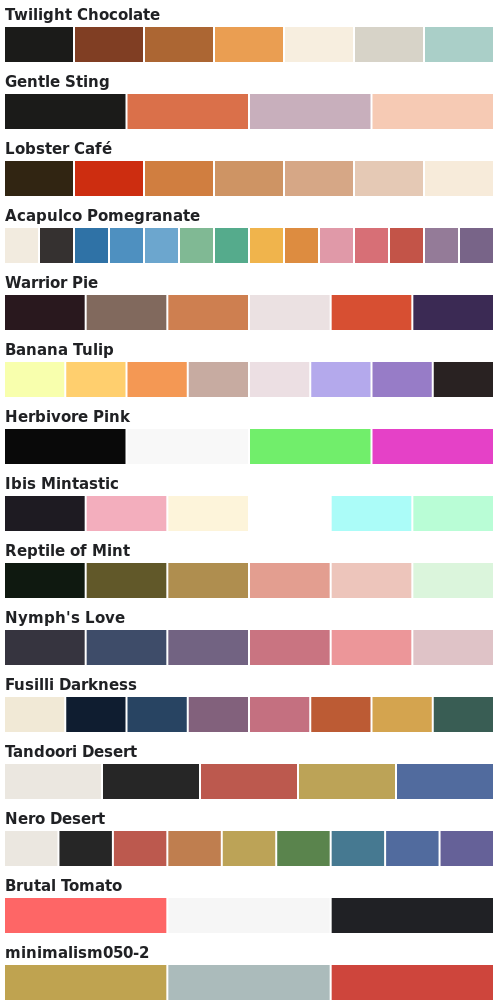
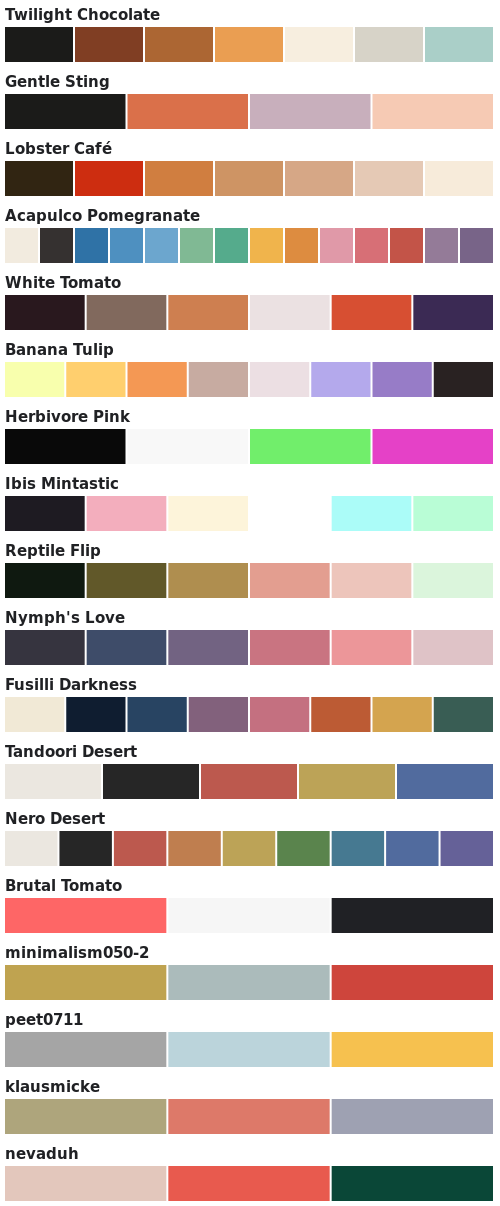
meodai published a site update

diff --git a/palettes.js b/palettes.js
@@ -3,7 +3,7 @@
   typeof define === 'function' && define.amd ? define(['exports'], factory) :
   (global = typeof globalThis !== 'undefined' ? globalThis : global || self, factory(global.colorPalettes = {}));
 })(this, (function (exports) { 'use strict';
-  const palettes = [{"name":"Twilight Chocolate","colors":["#1b1b19","#803e23","#ac6633","#ea9e52","#f7eedf","#d7d3c8","#aacfc8"]},{"name":"Gentle Sting","colors":["#1b1b19","#da704a","#c8afbc","#f6cab4"]},{"name":"Lobster Café","colors":["#312512","#cd2d10","#d07e40","#ce9464","#d6a786","#e5c9b5","#f7ebda"]},{"colors":["#f2ebdf","#353130","#2f72a6","#4e90c0","#6ca6ce","#80b994","#55ab8c","#f0b44c","#dd8c40","#e099a8","#d76f76","#c35448","#947b98","#786488"],"name":"Acapulco Pomegranate"},{"colors":["#29181e","#81695d","#ce7f50","#ebe1e2","#d74f32","#3b2a54"],"name":"Warrior Pie"},{"colors":["#f8ffad","#ffcf6e","#f49854","#c7aba1","#ecdfe3","#b4a9ec","#977cc7","#292222"],"name":"Banana Tulip"},{"colors":["#090909","#f8f8f8","#71ee6b","#e541c7"],"name":"Herbivore Pink"},{"colors":["#1e1b22","#f3aebd","#fdf4da","#ffffff","#abfcf8","#b9fdd6"],"name":"Ibis Mintastic"},{"colors":["#0f1910","#615829","#af8e4f","#e39e90","#edc5bb","#dbf5dc"],"name":"Reptile of Mint"},{"colors":["#36343f","#3e4c69","#726382","#c97481","#ec9699","#dfc3c7"],"name":"Nymph's Love"},{"colors":["#f1e9d6","#0f1d30","#284462","#82617c","#c47080","#bc5b34","#d4a44f","#395d54"],"name":"Fusilli Darkness"},{"author":"ippsketch","colors":["#ebe7e0","#262626","#bc594e","#bca357","#516b9e"],"name":"Tandoori Desert"},{"author":"ippsketch","colors":["#ebe7e0","#262626","#bc594e","#bf7e4f","#bca357","#5a844d","#467991","#516b9e","#656198"],"name":"Nero Desert"},{"name":"Brutal Tomato","colors":["#fe6666","#f6f6f6","#202125"]},{"name":"foundcolor.co","palettes":[{"name":"minimalism050-2","colors":["#bfa350","#abbbbb","#ce453c"]}]}]
+  const palettes = [{"name":"Twilight Chocolate","colors":["#1b1b19","#803e23","#ac6633","#ea9e52","#f7eedf","#d7d3c8","#aacfc8"]},{"name":"Gentle Sting","colors":["#1b1b19","#da704a","#c8afbc","#f6cab4"]},{"name":"Lobster Café","colors":["#312512","#cd2d10","#d07e40","#ce9464","#d6a786","#e5c9b5","#f7ebda"]},{"colors":["#f2ebdf","#353130","#2f72a6","#4e90c0","#6ca6ce","#80b994","#55ab8c","#f0b44c","#dd8c40","#e099a8","#d76f76","#c35448","#947b98","#786488"],"name":"Acapulco Pomegranate"},{"colors":["#29181e","#81695d","#ce7f50","#ebe1e2","#d74f32","#3b2a54"],"name":"White Tomato"},{"colors":["#f8ffad","#ffcf6e","#f49854","#c7aba1","#ecdfe3","#b4a9ec","#977cc7","#292222"],"name":"Banana Tulip"},{"colors":["#090909","#f8f8f8","#71ee6b","#e541c7"],"name":"Herbivore Pink"},{"colors":["#1e1b22","#f3aebd","#fdf4da","#ffffff","#abfcf8","#b9fdd6"],"name":"Ibis Mintastic"},{"colors":["#0f1910","#615829","#af8e4f","#e39e90","#edc5bb","#dbf5dc"],"name":"Reptile Flip"},{"colors":["#36343f","#3e4c69","#726382","#c97481","#ec9699","#dfc3c7"],"name":"Nymph's Love"},{"colors":["#f1e9d6","#0f1d30","#284462","#82617c","#c47080","#bc5b34","#d4a44f","#395d54"],"name":"Fusilli Darkness"},{"author":"ippsketch","colors":["#ebe7e0","#262626","#bc594e","#bca357","#516b9e"],"name":"Tandoori Desert"},{"author":"ippsketch","colors":["#ebe7e0","#262626","#bc594e","#bf7e4f","#bca357","#5a844d","#467991","#516b9e","#656198"],"name":"Nero Desert"},{"name":"Brutal Tomato","colors":["#fe6666","#f6f6f6","#202125"]},{"name":"foundcolor.co","palettes":[{"name":"minimalism050-2","colors":["#bfa350","#abbbbb","#ce453c"]},{"name":"peet0711","colors":["#a5a5a5","#bbd4db","#f6c14f"]},{"name":"klausmicke","colors":["#aea57c","#dd7969","#9ea1b2"]},{"name":"nevaduh","colors":["#e3c7bc","#e85a4e","#0a4737"]}]}]
 
   /**
    * @param {Array} palettes

diff --git a/palettes.esm.js b/palettes.esm.js
@@ -1,4 +1,4 @@
-const palettes = [{"name":"Twilight Chocolate","colors":["#1b1b19","#803e23","#ac6633","#ea9e52","#f7eedf","#d7d3c8","#aacfc8"]},{"name":"Gentle Sting","colors":["#1b1b19","#da704a","#c8afbc","#f6cab4"]},{"name":"Lobster Café","colors":["#312512","#cd2d10","#d07e40","#ce9464","#d6a786","#e5c9b5","#f7ebda"]},{"colors":["#f2ebdf","#353130","#2f72a6","#4e90c0","#6ca6ce","#80b994","#55ab8c","#f0b44c","#dd8c40","#e099a8","#d76f76","#c35448","#947b98","#786488"],"name":"Acapulco Pomegranate"},{"colors":["#29181e","#81695d","#ce7f50","#ebe1e2","#d74f32","#3b2a54"],"name":"Warrior Pie"},{"colors":["#f8ffad","#ffcf6e","#f49854","#c7aba1","#ecdfe3","#b4a9ec","#977cc7","#292222"],"name":"Banana Tulip"},{"colors":["#090909","#f8f8f8","#71ee6b","#e541c7"],"name":"Herbivore Pink"},{"colors":["#1e1b22","#f3aebd","#fdf4da","#ffffff","#abfcf8","#b9fdd6"],"name":"Ibis Mintastic"},{"colors":["#0f1910","#615829","#af8e4f","#e39e90","#edc5bb","#dbf5dc"],"name":"Reptile of Mint"},{"colors":["#36343f","#3e4c69","#726382","#c97481","#ec9699","#dfc3c7"],"name":"Nymph's Love"},{"colors":["#f1e9d6","#0f1d30","#284462","#82617c","#c47080","#bc5b34","#d4a44f","#395d54"],"name":"Fusilli Darkness"},{"author":"ippsketch","colors":["#ebe7e0","#262626","#bc594e","#bca357","#516b9e"],"name":"Tandoori Desert"},{"author":"ippsketch","colors":["#ebe7e0","#262626","#bc594e","#bf7e4f","#bca357","#5a844d","#467991","#516b9e","#656198"],"name":"Nero Desert"},{"name":"Brutal Tomato","colors":["#fe6666","#f6f6f6","#202125"]},{"name":"foundcolor.co","palettes":[{"name":"minimalism050-2","colors":["#bfa350","#abbbbb","#ce453c"]}]}]
+const palettes = [{"name":"Twilight Chocolate","colors":["#1b1b19","#803e23","#ac6633","#ea9e52","#f7eedf","#d7d3c8","#aacfc8"]},{"name":"Gentle Sting","colors":["#1b1b19","#da704a","#c8afbc","#f6cab4"]},{"name":"Lobster Café","colors":["#312512","#cd2d10","#d07e40","#ce9464","#d6a786","#e5c9b5","#f7ebda"]},{"colors":["#f2ebdf","#353130","#2f72a6","#4e90c0","#6ca6ce","#80b994","#55ab8c","#f0b44c","#dd8c40","#e099a8","#d76f76","#c35448","#947b98","#786488"],"name":"Acapulco Pomegranate"},{"colors":["#29181e","#81695d","#ce7f50","#ebe1e2","#d74f32","#3b2a54"],"name":"White Tomato"},{"colors":["#f8ffad","#ffcf6e","#f49854","#c7aba1","#ecdfe3","#b4a9ec","#977cc7","#292222"],"name":"Banana Tulip"},{"colors":["#090909","#f8f8f8","#71ee6b","#e541c7"],"name":"Herbivore Pink"},{"colors":["#1e1b22","#f3aebd","#fdf4da","#ffffff","#abfcf8","#b9fdd6"],"name":"Ibis Mintastic"},{"colors":["#0f1910","#615829","#af8e4f","#e39e90","#edc5bb","#dbf5dc"],"name":"Reptile Flip"},{"colors":["#36343f","#3e4c69","#726382","#c97481","#ec9699","#dfc3c7"],"name":"Nymph's Love"},{"colors":["#f1e9d6","#0f1d30","#284462","#82617c","#c47080","#bc5b34","#d4a44f","#395d54"],"name":"Fusilli Darkness"},{"author":"ippsketch","colors":["#ebe7e0","#262626","#bc594e","#bca357","#516b9e"],"name":"Tandoori Desert"},{"author":"ippsketch","colors":["#ebe7e0","#262626","#bc594e","#bf7e4f","#bca357","#5a844d","#467991","#516b9e","#656198"],"name":"Nero Desert"},{"name":"Brutal Tomato","colors":["#fe6666","#f6f6f6","#202125"]},{"name":"foundcolor.co","palettes":[{"name":"minimalism050-2","colors":["#bfa350","#abbbbb","#ce453c"]},{"name":"peet0711","colors":["#a5a5a5","#bbd4db","#f6c14f"]},{"name":"klausmicke","colors":["#aea57c","#dd7969","#9ea1b2"]},{"name":"nevaduh","colors":["#e3c7bc","#e85a4e","#0a4737"]}]}]
 
 /**
  * @param {Array} palettes
